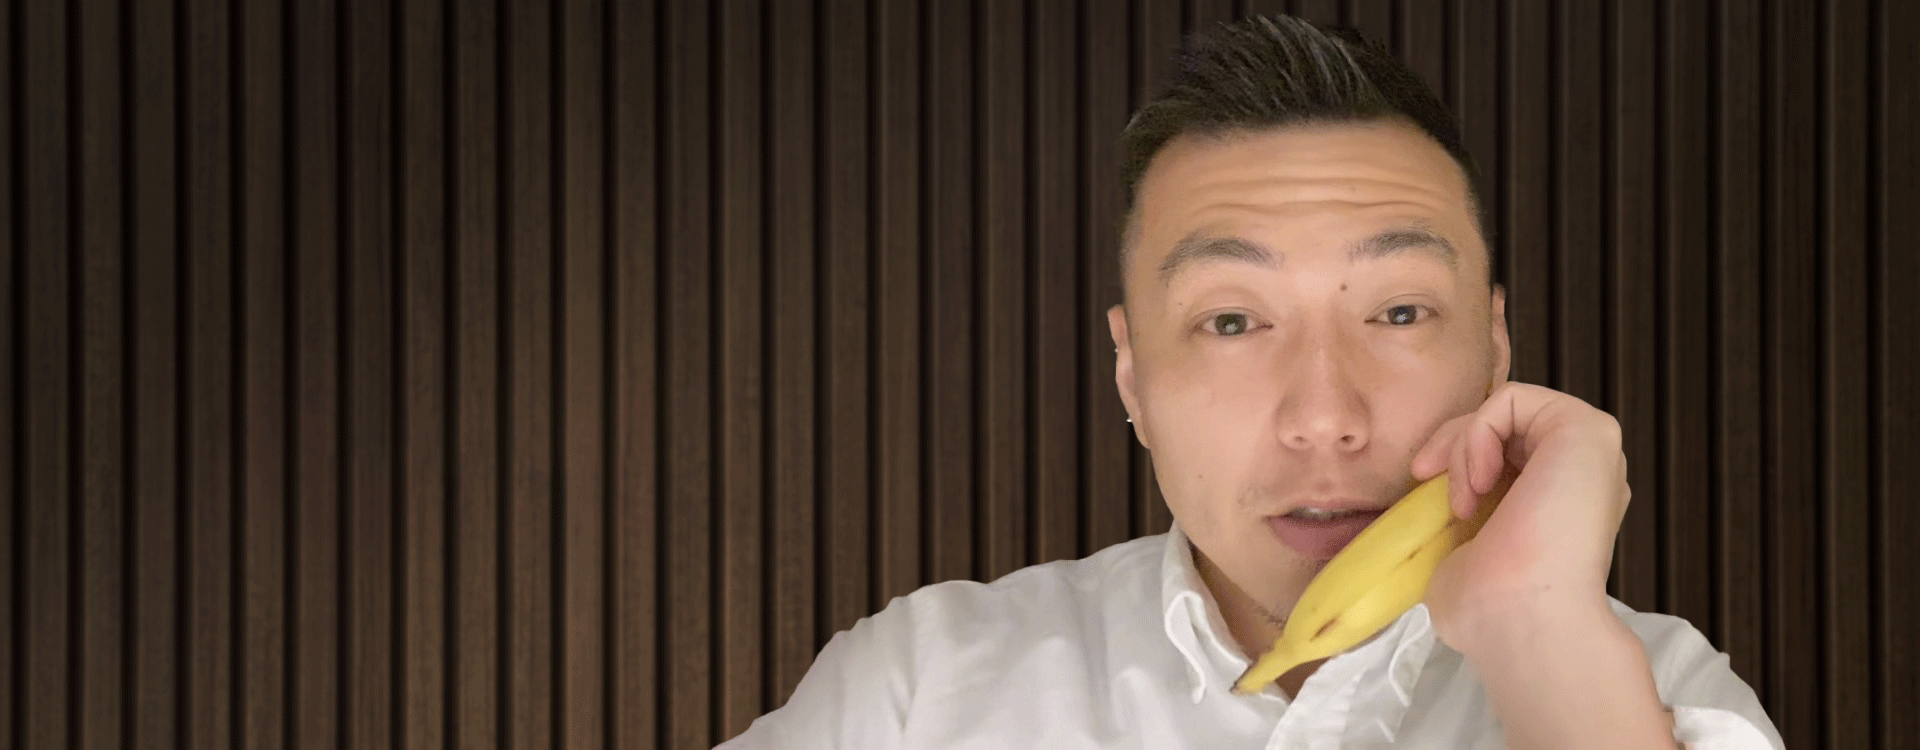
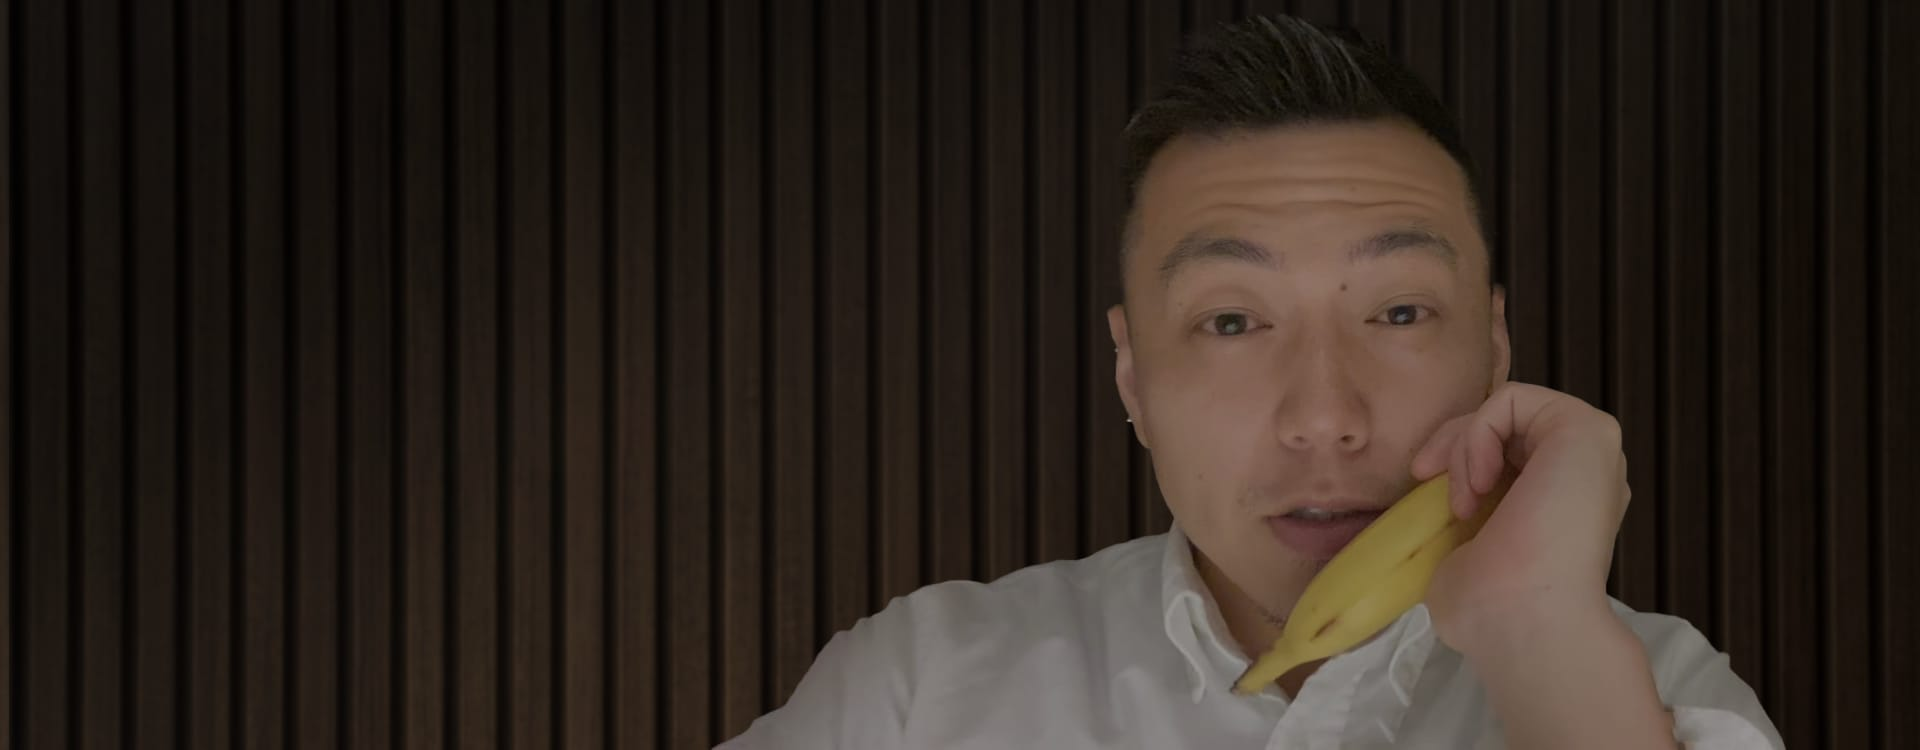
changed the main hero pics

diff --git a/css/index.css b/css/index.css
@@ -81,9 +81,6 @@ main {
 .indexPage main #heroSection {
   height: 560px !important;
 }
-.indexPage main #heroSection .heroMain {
-  filter: grayscale(40%) contrast(130%);
-}
 .indexPage main #heroSection .IndexPage__hero .IndexPage__hero__container {
   width: 80%;
   margin: auto;

diff --git a/sass/index.scss b/sass/index.scss
@@ -76,9 +76,6 @@ main{
   main{
     #heroSection{
       height: 560px !important;
-      .heroMain{
-        filter: grayscale(40%) contrast(130%);
-      }
       .IndexPage__hero{
         .IndexPage__hero__container{
           width: 80%;
